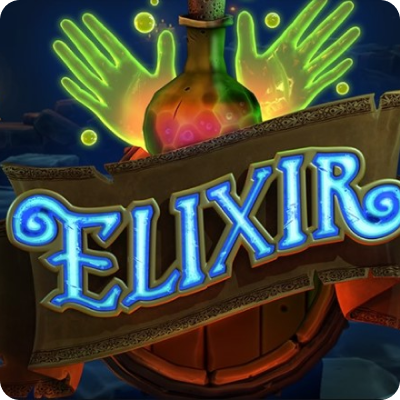
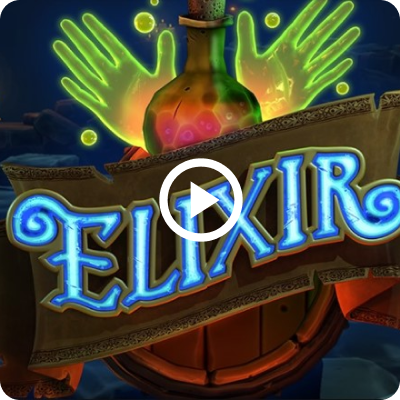
Add trailer

Changed region(s): [[0.39, 0.39, 0.63, 0.63]]

diff --git a/src/Pages/VRLudique/Components/Experiences.js b/src/Pages/VRLudique/Components/Experiences.js
@@ -17,11 +17,15 @@ export function Experiences() {
                 <dl className="grid grid-cols-1 gap-x-8 gap-y-16 text-center lg:grid-cols-2 mt-10 mb-10">
                     <div className="mx-auto flex max-w-xs flex-col">
                         <dt className="text-xl font-semibold leading-8 text-gray-900 sm:text-xl">Expériences Film</dt>
-                        <img src="../Images/jw.png" alt="jurassic world image" className="rounded-lg mt-5 m-auto"/>
+                        <a href="https://www.youtube.com/watch?v=QYuMF0fP6vk" target="_blank">
+                            <img src="../Images/jw.png" alt="jurassic world image" className="rounded-lg mt-5 m-auto"/>
+                        </a>
                     </div>
                     <div className="mx-auto flex max-w-xs flex-col">
                         <dt className="text-xl font-semibold leading-8 text-gray-900 sm:text-xl">Expériences Hand Tracking</dt>
-                        <img src="../Images/elixir.png" alt="elixir image" className="rounded-lg mt-5 m-auto"/>
+                        <a href="https://www.youtube.com/watch?v=u4FXtABlnFY" target="_blank">
+                            <img src="../Images/elixir.png" alt="elixir image" className="rounded-lg mt-5 m-auto"/>
+                        </a>
                     </div>
                 </dl>
             </div>
@@ -37,19 +41,27 @@ export function Experiences() {
                 <dl className="grid grid-cols-1 gap-x-8 gap-y-16 text-center lg:grid-cols-2 mt-10 mb-10">
                     <div className="mx-auto flex max-w-xs flex-col">
                         <dt className="text-xl font-semibold leading-8 text-gray-900 sm:text-xl">Expériences Sportive</dt>
-                        <img src="../images/beatsaber.png" alt="beat saber image" className="rounded-lg mt-5 m-auto"/>
+                        <a href="https://www.youtube.com/watch?v=vL39Sg2AqWg" target="_blank">
+                            <img src="../images/beatsaber.png" alt="beat saber image" className="rounded-lg mt-5 m-auto"/>
+                        </a>
                     </div>
                     <div className="mx-auto flex max-w-xs flex-col">
                         <dt className="text-xl font-semibold leading-8 text-gray-900 sm:text-xl">Expériences Interactives</dt>
-                        <img src="../images/richie.png" alt="elixir image" className="rounded-lg mt-5 m-auto"/>
+                        <a href="https://www.youtube.com/watch?v=faNsP7ExSt0" target="_blank">
+                            <img src="../images/richie.png" alt="elixir image" className="rounded-lg mt-5 m-auto"/>
+                        </a>
                     </div>
                     <div className="mx-auto flex max-w-xs flex-col">
                         <dt className="text-xl font-semibold leading-8 text-gray-900 sm:text-xl">Expériences Horrifique</dt>
-                        <img src="../images/dropdead.png" alt="drop dead image" className="rounded-lg mt-5 m-auto"/>
+                        <a href="https://www.youtube.com/watch?v=-FmO92a3r2o" target="_blank">
+                            <img src="../images/dropdead.png" alt="drop dead image" className="rounded-lg mt-5 m-auto"/>
+                        </a>
                     </div>
                     <div className="mx-auto flex max-w-xs flex-col">
                         <dt className="text-xl font-semibold leading-8 text-gray-900 sm:text-xl">Expériences artistiques</dt>
-                        <img src="../images/gravity.png" alt="gravity image" className="rounded-lg mt-5 m-auto"/>
+                        <a href="https://www.youtube.com/watch?v=0aoUlwZxzow" target="_blank">
+                            <img src="../images/gravity.png" alt="gravity image" className="rounded-lg mt-5 m-auto"/>
+                        </a>
                     </div>
                 </dl>
             </div>
